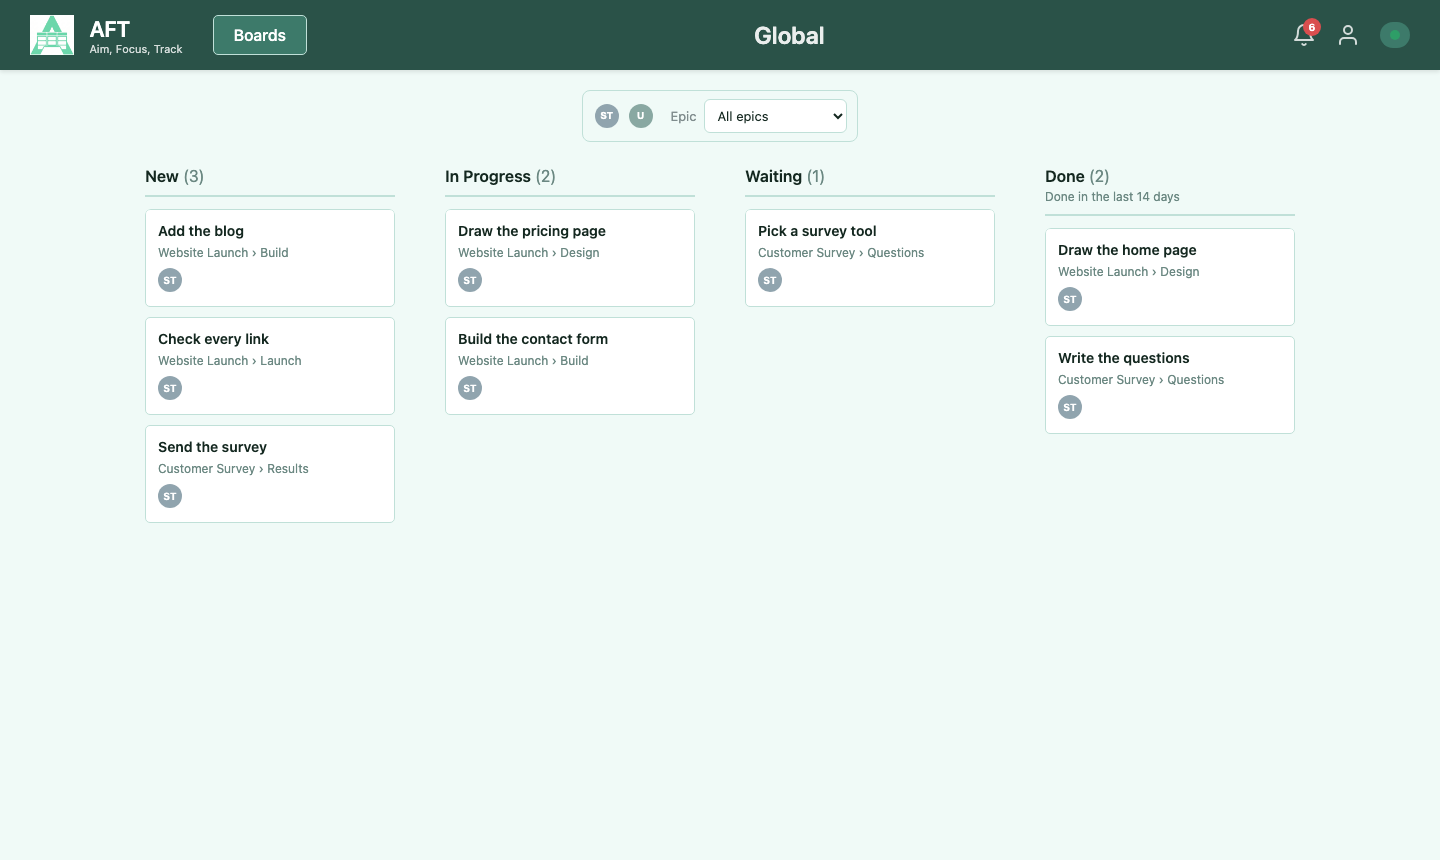
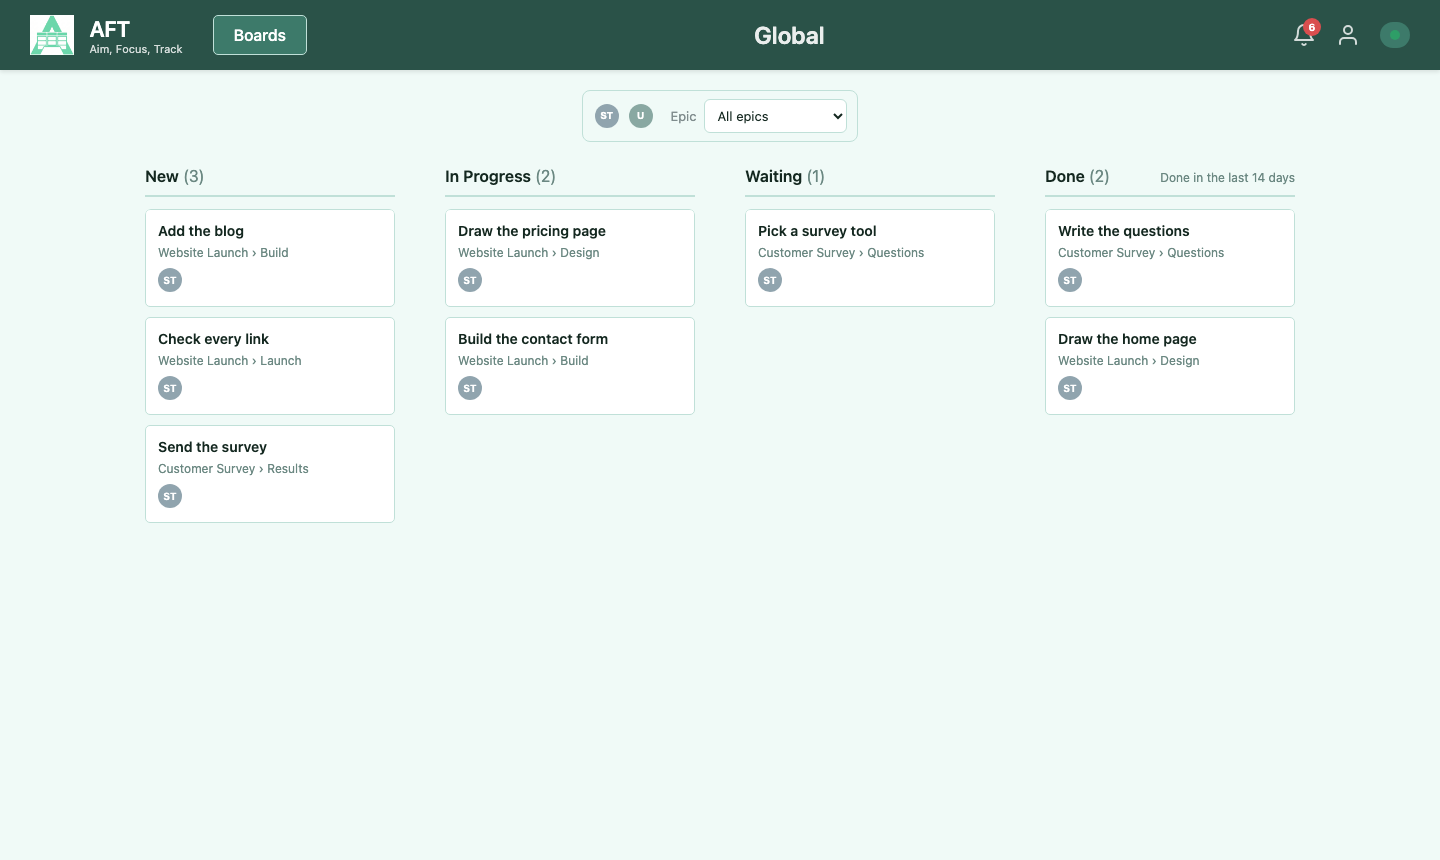
fix(global-board): keep the Done note on the heading line (#663)
The done window note made the Done column's header taller, so its cards
started lower than the other columns. It now shares the heading's line,
truncating with the full text in its title, and the docs screenshot is
retaken.

Changed region(s): [[0.7188, 0.1814, 0.9062, 0.4837]]

diff --git a/www/css/global-board.css b/www/css/global-board.css
@@ -152,7 +152,13 @@ body.global-board-page .canvas {
   background: var(--background-light);
 }
 
+/* One line high in every column, so the Done note can't push its cards
+   below the others. */
 .gb-column-header {
+  display: flex;
+  align-items: baseline;
+  gap: 8px;
+  min-width: 0;
   margin-bottom: 12px;
   padding-bottom: 10px;
   border-bottom: 2px solid var(--border-color);
@@ -163,6 +169,8 @@ body.global-board-page .canvas {
   font-size: 16px;
   font-weight: 600;
   color: var(--text-bold);
+  flex: 0 0 auto;
+  white-space: nowrap;
 }
 
 .gb-card-count {
@@ -171,9 +179,14 @@ body.global-board-page .canvas {
 }
 
 .gb-column-note {
-  margin: 4px 0 0;
+  flex: 0 1 auto;
+  min-width: 0;
+  margin: 0 0 0 auto;
+  overflow: hidden;
   font-size: 12px;
   color: var(--text-muted);
+  text-overflow: ellipsis;
+  white-space: nowrap;
 }
 
 .gb-card-list {

diff --git a/www/js/global-board.js b/www/js/global-board.js
@@ -553,10 +553,9 @@ class GlobalBoardPage {
     header.appendChild(heading);
     if (state.key === GLOBAL_BOARD_DONE_STATE && this.globalBoard && this.globalBoard.done_visible_days) {
       const days = this.globalBoard.done_visible_days;
-      header.appendChild(this.el('p', {
-        className: 'gb-column-note',
-        text: `Done in the last ${days} ${days === 1 ? 'day' : 'days'}`,
-      }));
+      const note = `Done in the last ${days} ${days === 1 ? 'day' : 'days'}`;
+      // Shares the heading's line, so it may be cut short; the title keeps it whole.
+      header.appendChild(this.el('p', { className: 'gb-column-note', text: note, attrs: { title: note } }));
     }
     column.appendChild(header);
 

diff --git a/www/global-board.html b/www/global-board.html
@@ -16,7 +16,7 @@
   <script src="/js/pwa.js"></script>
   <link rel="stylesheet" href="/css/styles.css">
   <link rel="stylesheet" href="/css/header.css?v=20261105a">
-  <link rel="stylesheet" href="/css/global-board.css?v=20261104a">
+  <link rel="stylesheet" href="/css/global-board.css?v=20261110a">
 </head>
 <body class="global-board-page">
   <!-- Header component will be loaded here -->
@@ -32,6 +32,6 @@
   <script src="/js/notifications.js"></script>
   <script src="/js/header.js?v=20261105a"></script>
   <script src="/js/socket.io.min.js"></script>
-  <script src="/js/global-board.js?v=20261104a"></script>
+  <script src="/js/global-board.js?v=20261110a"></script>
 </body>
 </html>

diff --git a/ui-tests/tests/test_global_board.py b/ui-tests/tests/test_global_board.py
@@ -122,6 +122,22 @@ def test_shows_columns_and_card_details(logged_in_page, global_board, epic, stor
 
 
 @pytest.mark.ui
+@pytest.mark.parametrize("viewport", [DESKTOP, MOBILE], ids=["desktop", "mobile"])
+def test_done_note_keeps_columns_in_line(logged_in_page, global_board, stories, viewport):
+    """The Done window note shares the heading's line, so every column's cards start level."""
+    page = logged_in_page
+    _open(page, global_board, viewport)
+    note = page.locator(".gb-column-note")
+    assert note.get_attribute("title") == "Done in the last 14 days"
+
+    tops = page.evaluate(
+        "() => [...document.querySelectorAll('.gb-card-list')].map(l => l.getBoundingClientRect().top)"
+    )
+    assert len(tops) == 4
+    assert max(tops) - min(tops) < 1, f"card lists don't start level: {tops}"
+
+
+@pytest.mark.ui
 def test_card_title_is_not_html(logged_in_page, api_session, ui_base_url, global_board, epic):
     page = logged_in_page
     title = '<img src=x onerror="window.__gbXss=1">'

diff --git a/www/docs/user-guide.md b/www/docs/user-guide.md
@@ -246,7 +246,7 @@ Each card shows its title, its assignee and where it came from, as `Board › Co
 
 - **Move cards**: drag them between columns and up and down a column. On a phone, or in touchscreen mode, use the **Move to** control on each card instead
 - **Done**: moving a card into Done marks it done on its own board, and moving it out marks it not done. Ticking done on the card's own board moves it to Done too. When you untick it, it goes back to the column it was in before
-- **Done column**: the newest done cards are at the top, and the column can't be reordered by hand. Done cards stay on the board for the number of days your administrator chose, 14 by default, which shows above the column. Older done cards are hidden but stay promoted, so unticking one brings it back
+- **Done column**: the newest done cards are at the top, and the column can't be reordered by hand. Done cards stay on the board for the number of days your administrator chose, 14 by default, which shows beside the column name. Older done cards are hidden but stay promoted, so unticking one brings it back
 - **Filters**: filter by assignee, including unassigned cards, and by epic board. Your filters are remembered on this device
 - **Live updates**: changes made by others, on the global board or on the epic boards, appear without reloading
 
